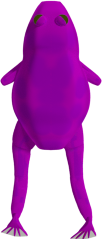
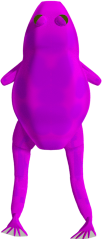
Impoved style, added levels, fixed map zoom bug

diff --git a/main.py b/main.py
@@ -112,8 +112,8 @@ class FrogApp(App):
         # popup to display help
         self.help_popup = Popup(title="Help",
                                 attach_to=self.game)
-        help_img = Image(source="img/help.png")
-        self.help_popup.content = help_img
+        # help_img = Image(source="img/help.png")
+        self.help_popup.content = HelpPopup() # help_img
         self.help_popup.bind(on_touch_down=self.help_popup.dismiss)
         self.help_popup.bind(on_open=self.pause_game)
         self.help_popup.bind(on_dismiss=self.continue_game)
@@ -1169,6 +1169,10 @@ class LevelChooserPopup(Widget):
 
 
 class AboutPopup(Widget):
+    pass
+
+
+class HelpPopup(Widget):
     pass
 
 
